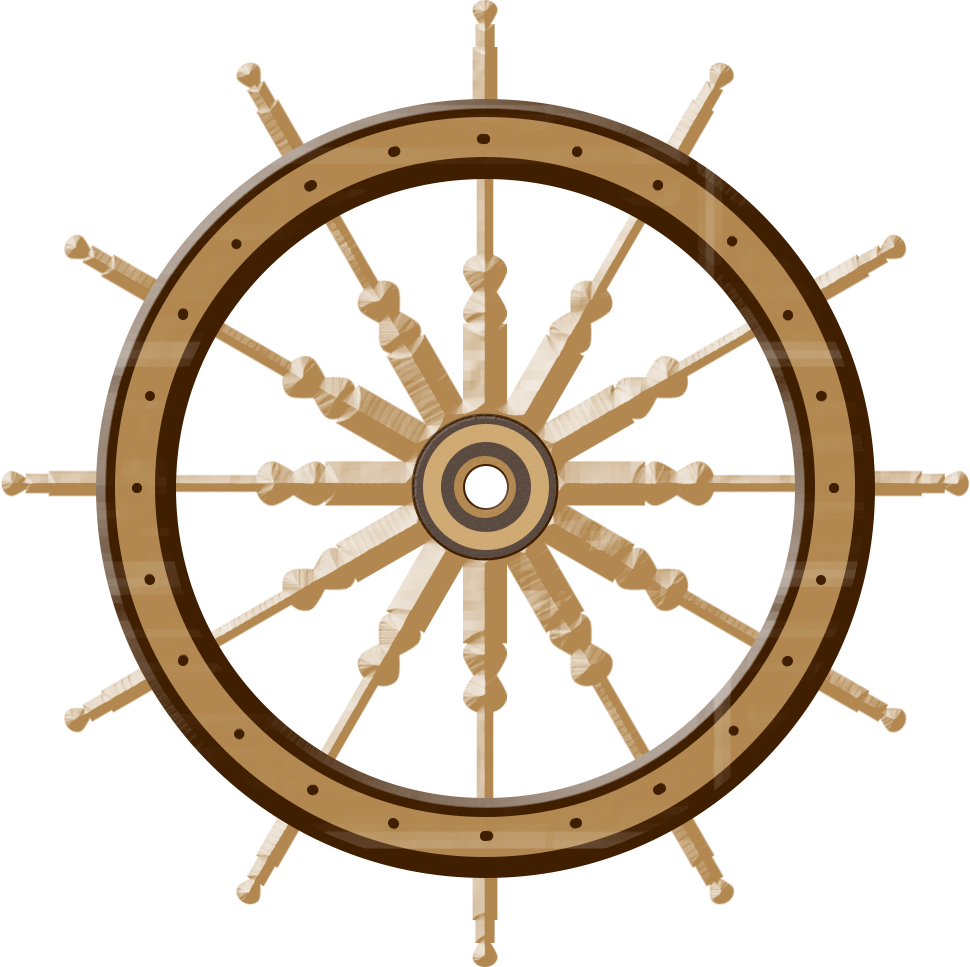
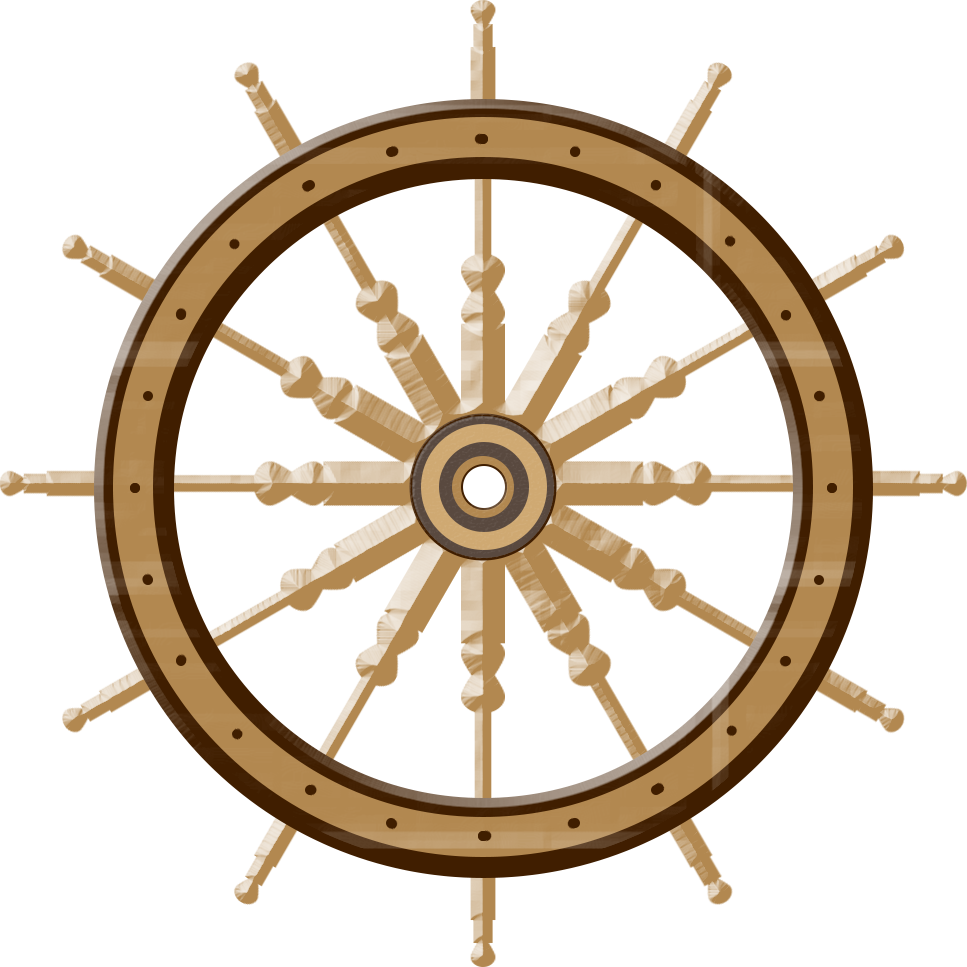
画像の分割読み、UIの定義と基本UIの設定

diff --git a/UserInterface.cpp b/UserInterface.cpp
@@ -1,0 +1,16 @@
+#include "UserInterface.h"
+#include "DxLib.h"
+
+UserInterface::~UserInterface()
+{
+}
+
+void UserInterface::Show(double Radian){
+	DrawExtendGraph(0, 0, 300, 30, *HPBarBaseHandle, TRUE);
+	DrawRotaGraph3(320, 480, SWW / 2, SWL / 2,
+		0.25, 0.25, Radian, *SteeringWheelHandle, TRUE, FALSE);
+}
+
+void UserInterface::Inif() {
+	GetGraphSize(*SteeringWheelHandle, &SWW,&SWL);
+}

diff --git a/UserInterface.h b/UserInterface.h
@@ -1,0 +1,17 @@
+#pragma once
+class UserInterface
+{
+public:
+	UserInterface(int *SWH, int *HPBBH): SteeringWheelHandle(SWH),
+		HPBarBaseHandle(HPBBH) {}
+	~UserInterface();
+
+	void Show(double Radian);
+	void Inif();
+
+private:
+	const int *SteeringWheelHandle;
+	const int *HPBarBaseHandle;
+	int SWL, SWW;
+};
+
